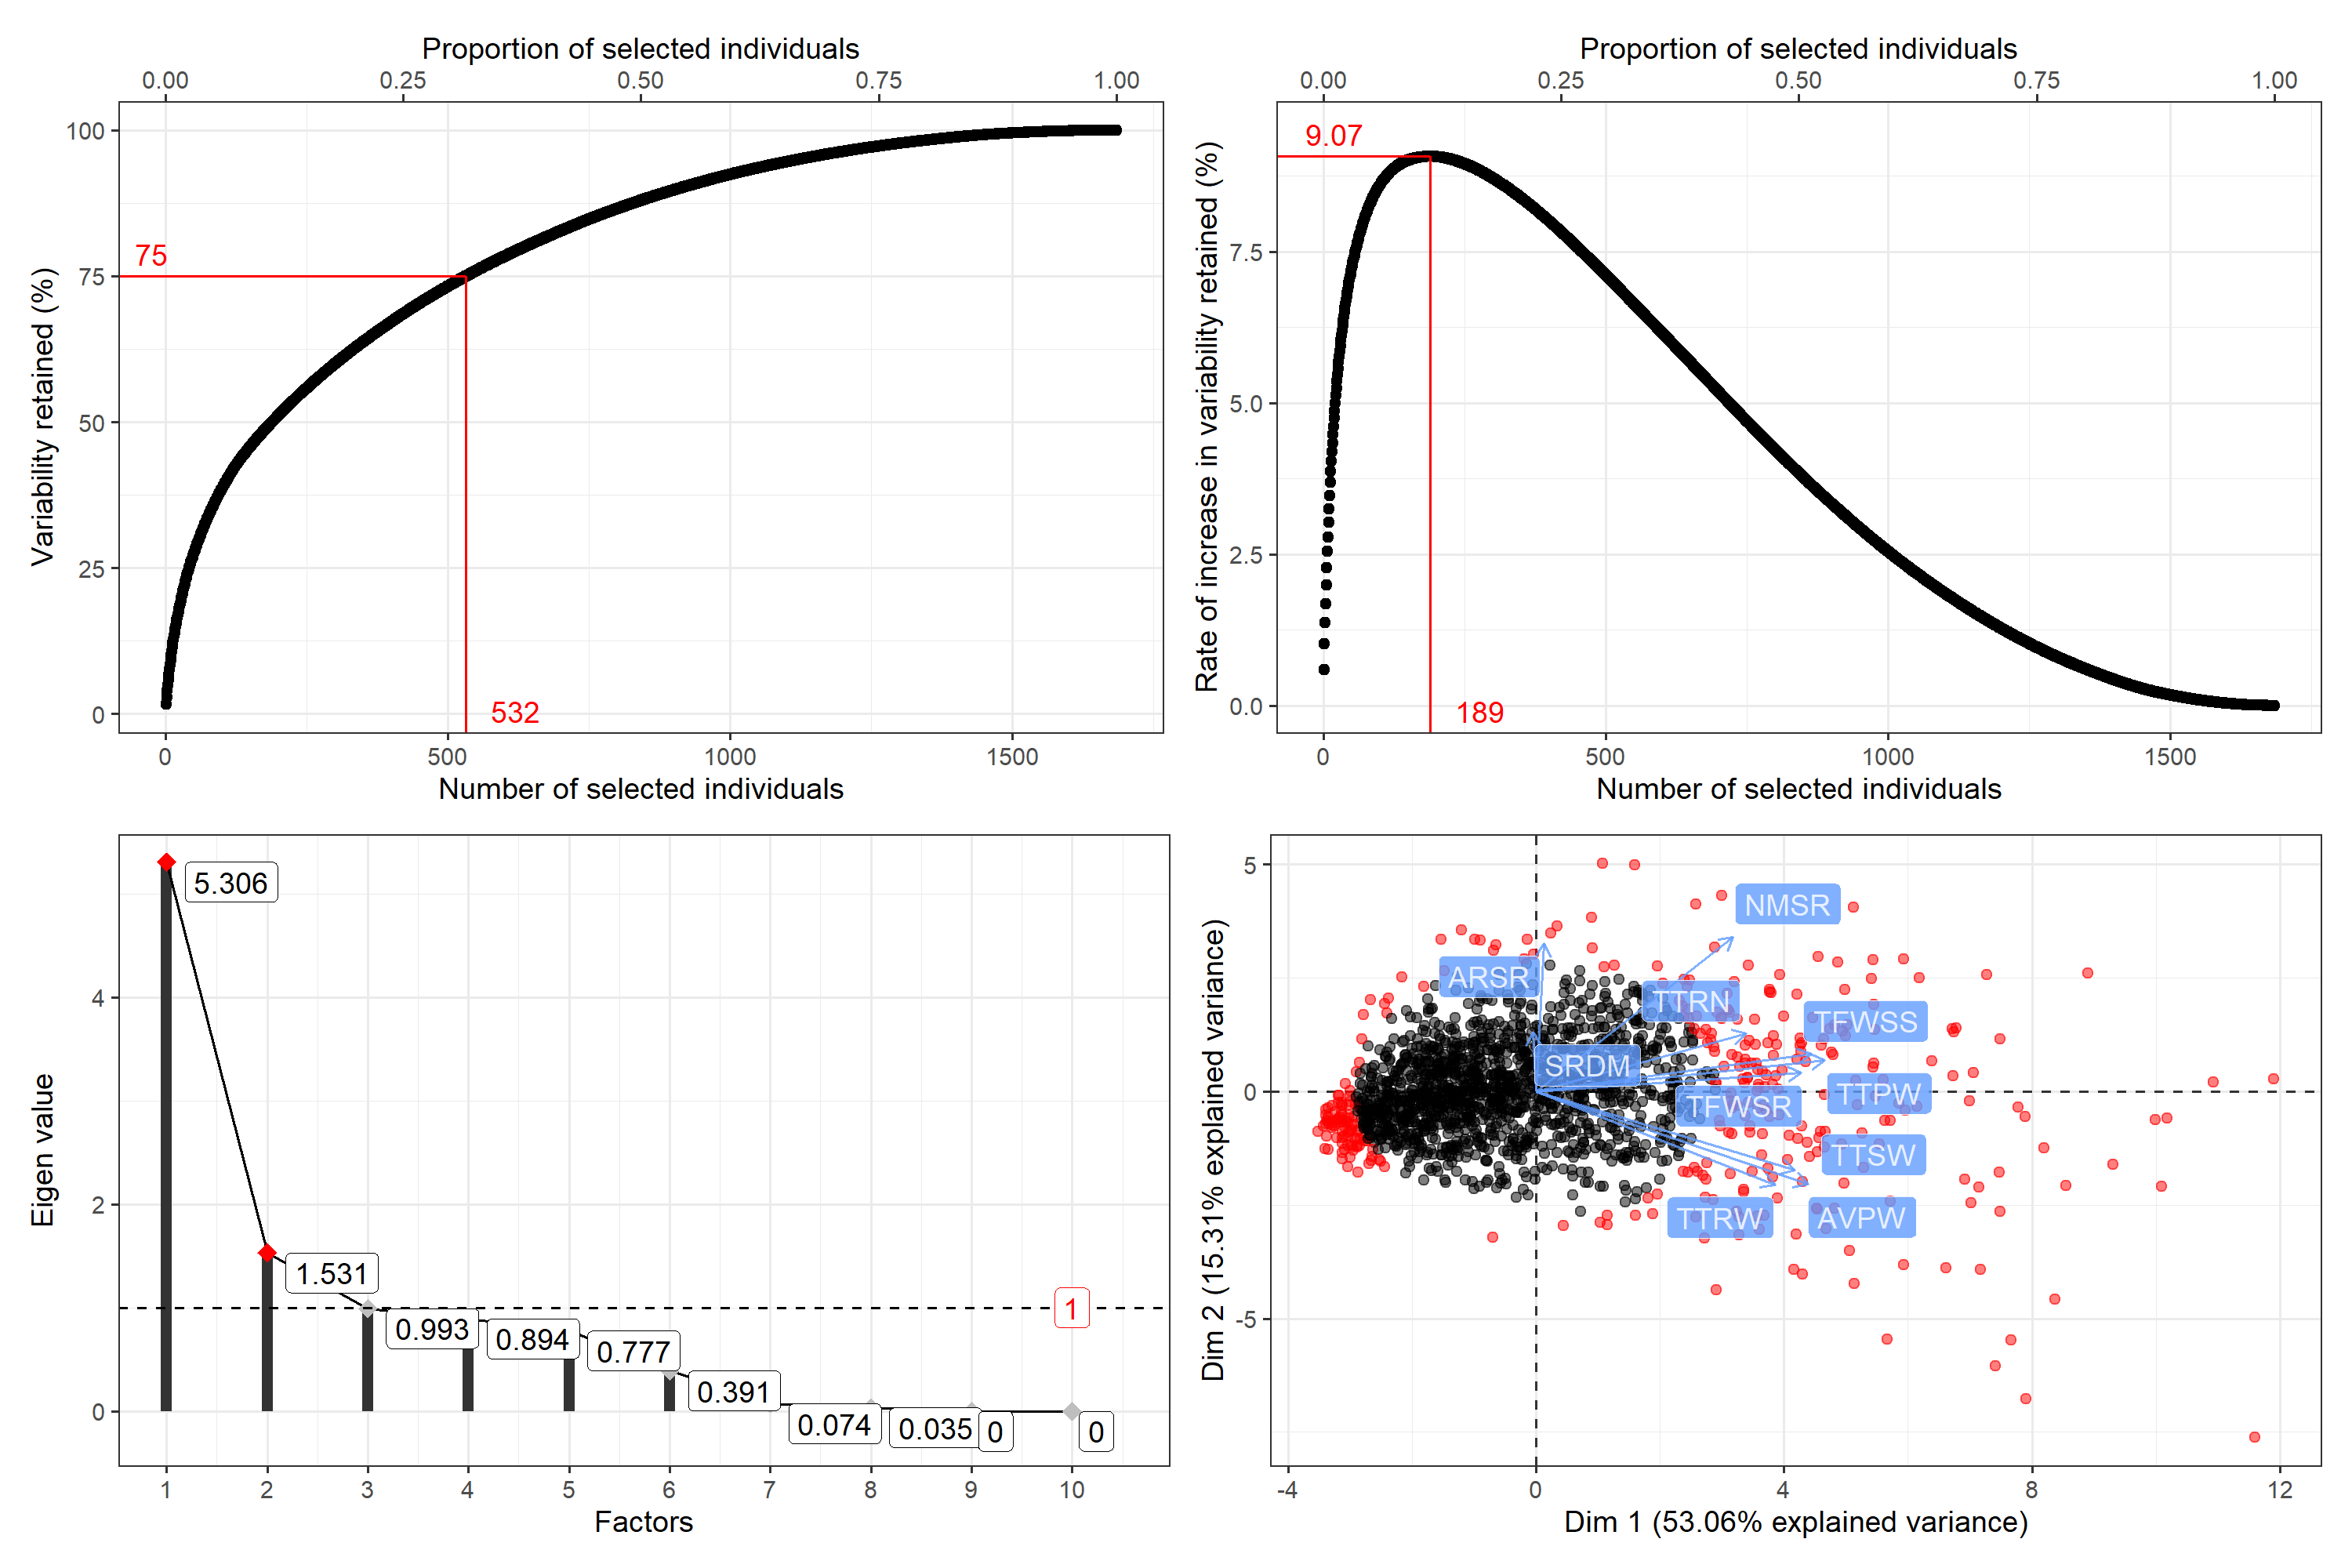
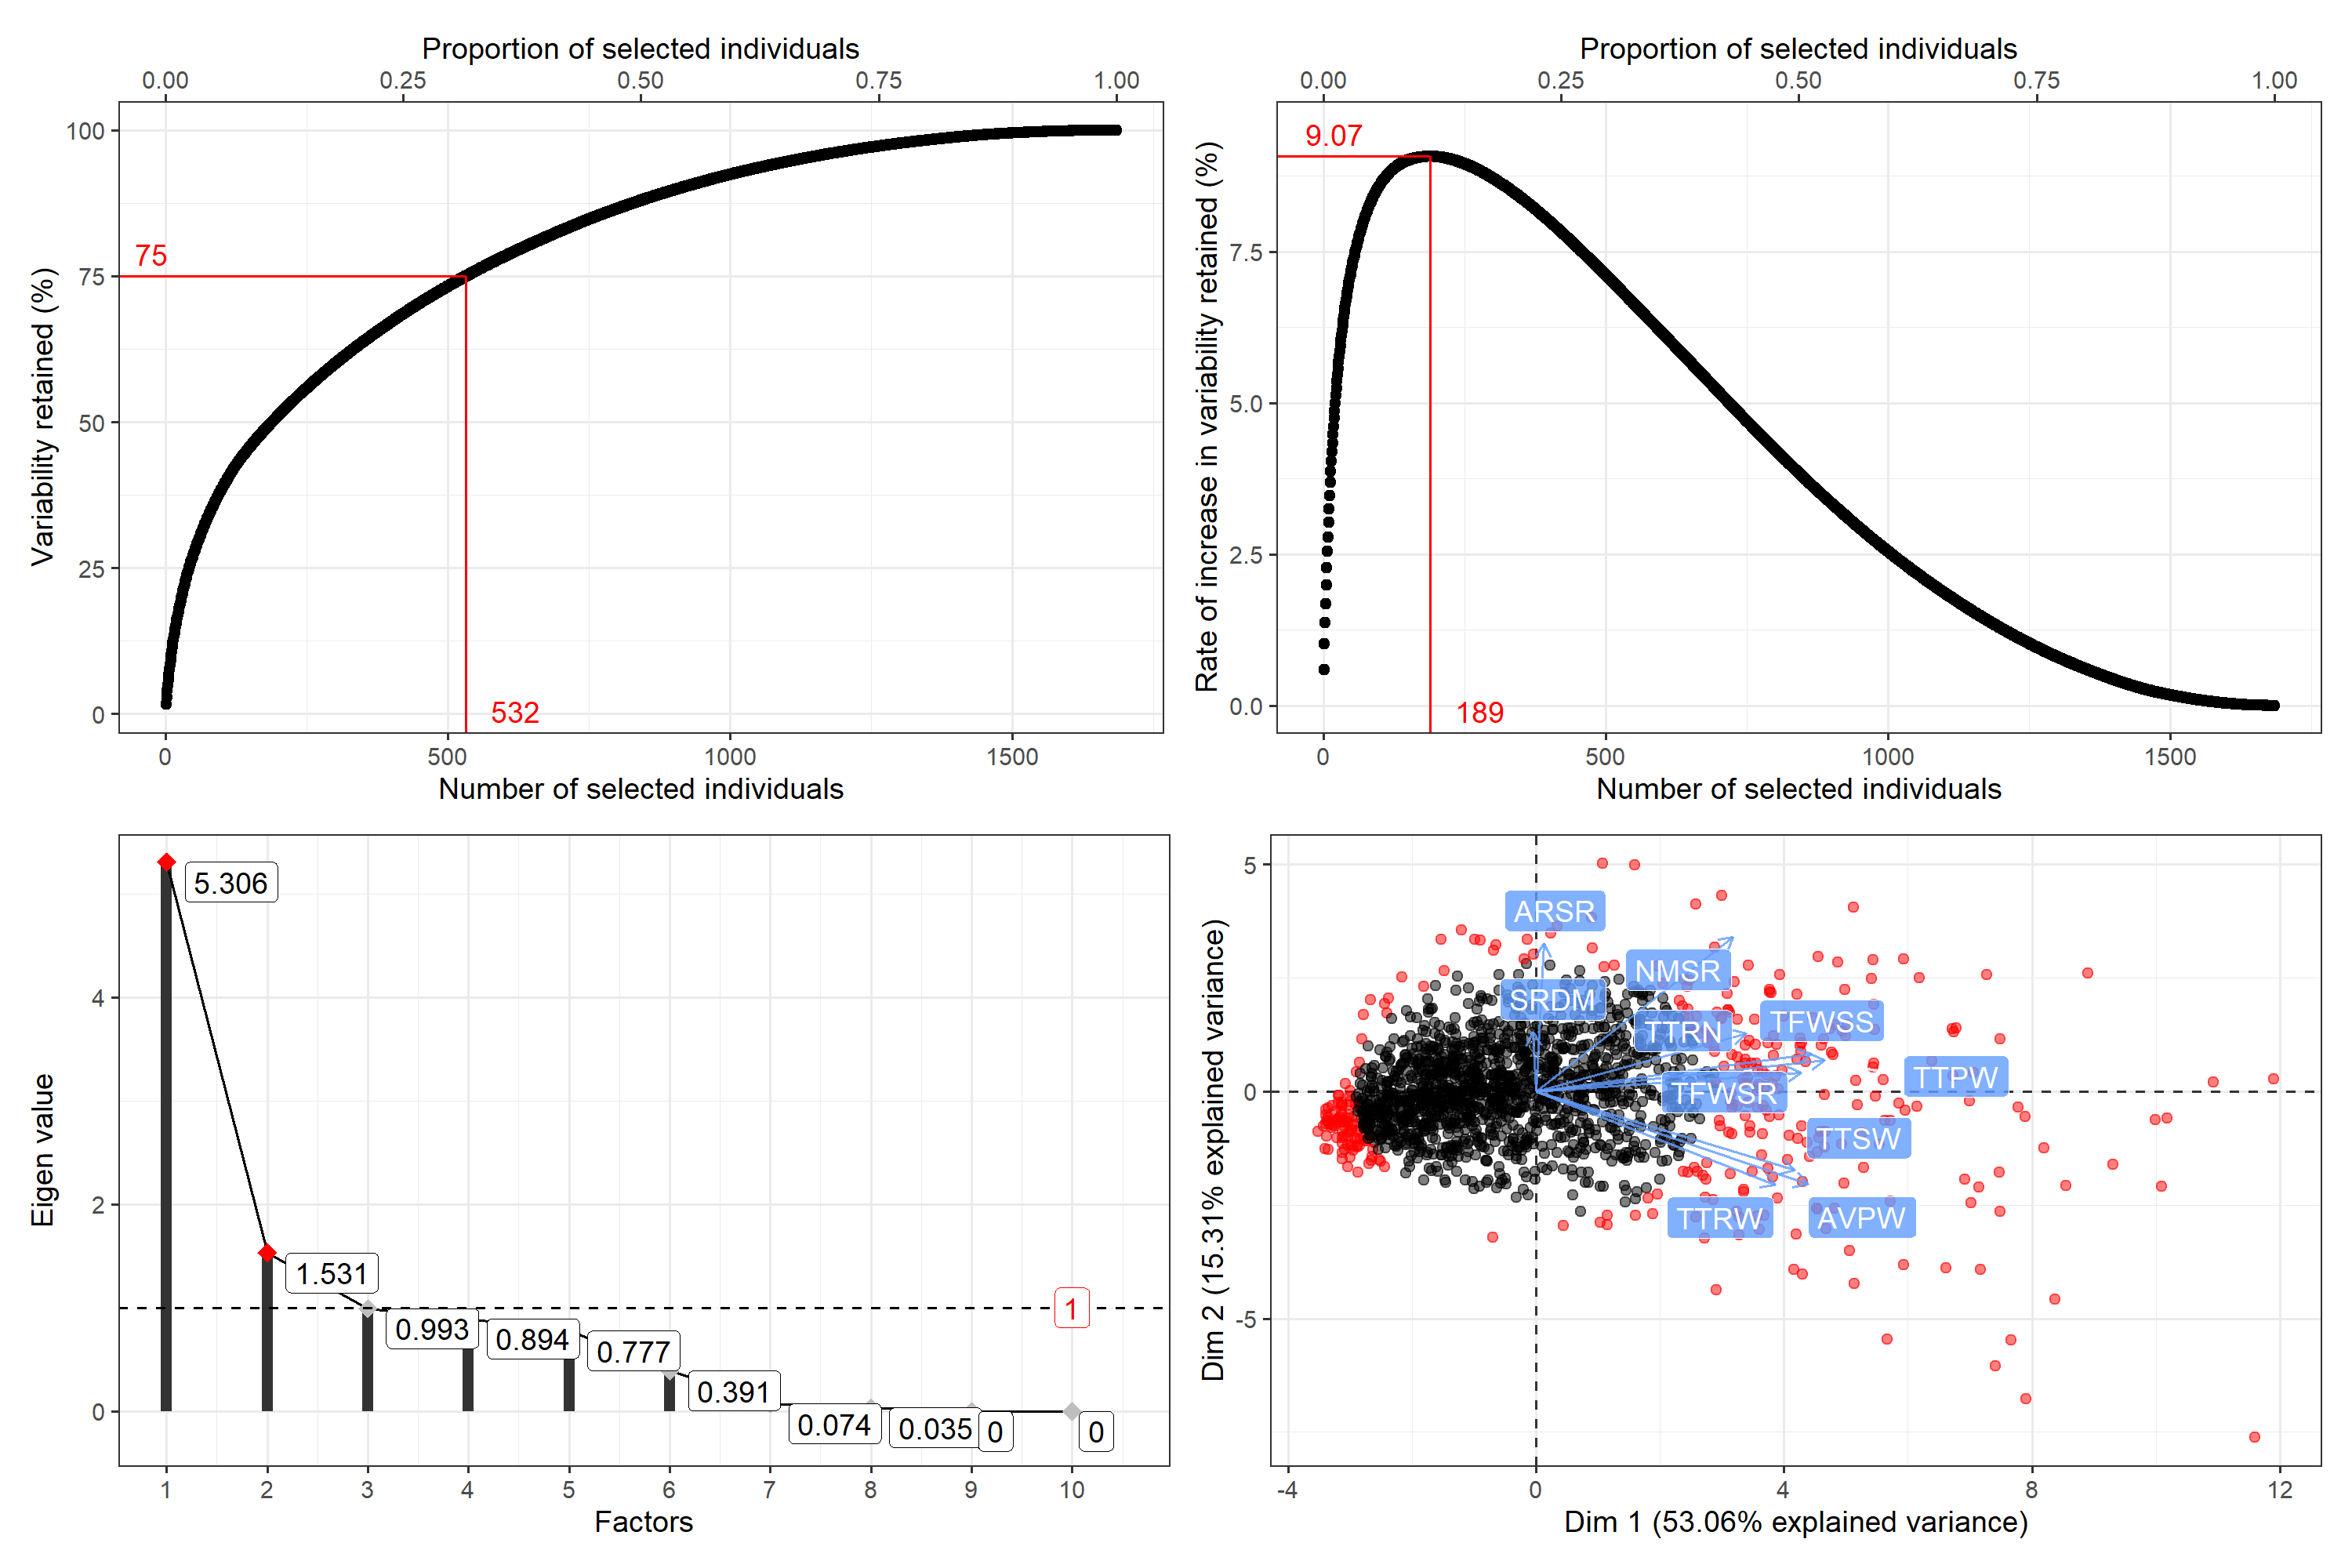
Built site for rpcss@0.1.1: 5b05992

Changed region(s): [[0.589, 0.558, 0.868, 0.775]]

diff --git a/cran-comments-archive.html b/cran-comments-archive.html
@@ -1,0 +1,123 @@
+<!DOCTYPE html>
+<!-- Generated by pkgdown: do not edit by hand --><html lang="en"><head><meta http-equiv="Content-Type" content="text/html; charset=UTF-8"><meta charset="utf-8"><meta http-equiv="X-UA-Compatible" content="IE=edge"><meta name="viewport" content="width=device-width, initial-scale=1, shrink-to-fit=no"><title>Version 0.1.0 - Third submission • rpcss</title><!-- favicons --><link rel="icon" type="image/png" sizes="96x96" href="favicon-96x96.png"><link rel="icon" type="”image/svg+xml”" href="favicon.svg"><link rel="apple-touch-icon" sizes="180x180" href="apple-touch-icon.png"><link rel="icon" sizes="any" href="favicon.ico"><link rel="manifest" href="site.webmanifest"><!-- mathjax math --><script src="https://cdn.jsdelivr.net/npm/mathjax@3.2.2/es5/tex-mml-chtml.js" integrity="sha256-MASABpB4tYktI2Oitl4t+78w/lyA+D7b/s9GEP0JOGI=" crossorigin="anonymous"></script><script>
+  window.MathJax = {
+    chtml: {
+      fontURL: "https://cdn.jsdelivr.net/npm/mathjax@3.2.2/es5/output/chtml/fonts/woff-v2"
+    }
+  };
+</script><script src="lightswitch.js"></script><script src="deps/jquery-3.6.0/jquery-3.6.0.min.js"></script><meta name="viewport" content="width=device-width, initial-scale=1, shrink-to-fit=no"><link href="deps/bootstrap-5.3.1/bootstrap.min.css" rel="stylesheet"><script src="deps/bootstrap-5.3.1/bootstrap.bundle.min.js"></script><link href="deps/Fira_Sans-0.4.10/font.css" rel="stylesheet"><link href="deps/Fira_Mono-0.4.10/font.css" rel="stylesheet"><link href="deps/font-awesome-6.5.2/css/all.min.css" rel="stylesheet"><link href="deps/font-awesome-6.5.2/css/v4-shims.min.css" rel="stylesheet"><script src="deps/headroom-0.11.0/headroom.min.js"></script><script src="deps/headroom-0.11.0/jQuery.headroom.min.js"></script><script src="deps/bootstrap-toc-1.0.1/bootstrap-toc.min.js"></script><script src="deps/clipboard.js-2.0.11/clipboard.min.js"></script><script src="deps/search-1.0.0/autocomplete.jquery.min.js"></script><script src="deps/search-1.0.0/fuse.min.js"></script><script src="deps/search-1.0.0/mark.min.js"></script><!-- pkgdown --><script src="pkgdown.js"></script><meta property="og:title" content="Version 0.1.0 - Third submission"><!-- Global site tag (gtag.js) - Google Analytics --><script async src="https://www.googletagmanager.com/gtag/js?id=G-BEF8VV6GWJ"></script><script>
+  window.dataLayer = window.dataLayer || [];
+  function gtag(){dataLayer.push(arguments);}
+  gtag('js', new Date());
+
+  gtag('config', 'G-BEF8VV6GWJ');
+</script><!-- Google tag (gtag.js) --></head><body>
+    <a href="#main" class="visually-hidden-focusable">Skip to contents</a>
+
+
+    <nav class="navbar navbar-expand-lg fixed-top " aria-label="Site navigation"><div class="container">
+
+    <a class="navbar-brand me-2" href="index.html">rpcss</a>
+
+    <small class="nav-text text-muted me-auto" data-bs-toggle="tooltip" data-bs-placement="bottom" title="">0.1.1</small>
+
+
+    <button class="navbar-toggler" type="button" data-bs-toggle="collapse" data-bs-target="#navbar" aria-controls="navbar" aria-expanded="false" aria-label="Toggle navigation">
+      <span class="navbar-toggler-icon"></span>
+    </button>
+
+    <div id="navbar" class="collapse navbar-collapse ms-3">
+      <ul class="navbar-nav me-auto"><li class="nav-item"><a class="nav-link" href="index.html"><span class="fa fa-home fa-lg"></span> Home</a></li>
+<li class="nav-item"><a class="nav-link" href="reference/index.html"><span class="fa fa-code"></span> Reference</a></li>
+<li class="nav-item"><a class="nav-link" href="news/index.html"><span class="fa far fa-newspaper"></span> News</a></li>
+      </ul><ul class="navbar-nav"><li class="nav-item"><form class="form-inline" role="search">
+ <input class="form-control" type="search" name="search-input" id="search-input" autocomplete="off" aria-label="Search site" placeholder="Search for" data-search-index="search.json"></form></li>
+<li class="nav-item"><a class="external-link nav-link" href="https://github.com/aravind-j/rpcss"><span class="fa fab fa-github-alt"></span> Github</a></li>
+<li class="nav-item dropdown">
+  <button class="nav-link dropdown-toggle" type="button" id="dropdown-lightswitch" data-bs-toggle="dropdown" aria-expanded="false" aria-haspopup="true" aria-label="Light switch"><span class="fa fa-sun"></span></button>
+  <ul class="dropdown-menu dropdown-menu-end" aria-labelledby="dropdown-lightswitch"><li><button class="dropdown-item" data-bs-theme-value="light"><span class="fa fa-sun"></span> Light</button></li>
+    <li><button class="dropdown-item" data-bs-theme-value="dark"><span class="fa fa-moon"></span> Dark</button></li>
+    <li><button class="dropdown-item" data-bs-theme-value="auto"><span class="fa fa-adjust"></span> Auto</button></li>
+  </ul></li>
+      </ul></div>
+
+
+  </div>
+</nav><div class="container template-title-body">
+<div class="row">
+  <main id="main" class="col-md-9"><div class="page-header">
+
+      <h1>Version 0.1.0 - Third submission</h1>
+      <small class="dont-index">Source: <a href="https://github.com/aravind-j/rpcss/blob/master/cran-comments-archive.md" class="external-link"><code>cran-comments-archive.md</code></a></small>
+    </div>
+
+
+<div id="version-010---third-submission" class="section level1">
+
+<ul><li>DESCRIPTION: Added the (year) in brackets.</li>
+<li>Replaced <code>\dontrun{}</code> with <code>\donttest{}</code> in examples taking &gt; 5s for execution.</li>
+<li>Fixed missing <code>\value</code> tags in documentation by adding the value in <code>print.pcss.core.Rd</code>. For generics <code>contrib.Rd</code> and <code>coreplot.Rd</code>, merged the documentation with the specific method with <code>\value</code> tags.</li>
+</ul><div class="section level3">
+<h3 id="test-environments">Test environments<a class="anchor" aria-label="anchor" href="#test-environments"></a></h3>
+<ul><li>local Windows 11 Pro 24H2, R-release (R 4.4.2) &amp; R-devel (R 4.4.0 Pre-release).</li>
+<li>Modified 24H2 <code>r-lib/actions</code> Github Action Ubuntu 24.04, R-release (R 4.4.2) &amp; R-devel (R 4.4.0 Pre-release).</li>
+<li>Modified 24H2 <code>r-lib/actions</code> Github Action macOS 14 arm64, R-release (R 4.4.2)</li>
+<li>win-builder, R-release (R 4.4.2) &amp; R-devel (R 4.4.0 Pre-release).</li>
+</ul></div>
+<div class="section level3">
+<h3 id="r-cmd-check-results">R CMD check results<a class="anchor" aria-label="anchor" href="#r-cmd-check-results"></a></h3>
+<ul><li>There were no ERRORs or WARNINGs.</li>
+<li>There is a NOTE - “misspelled words in DESCRIPTION, Hamon, Noirot, PCSS, al and et”, which can be ignored.</li>
+</ul></div>
+</div>
+<div class="section level1">
+<h1 id="version-010---second-submission">Version 0.1.0 - Second submission<a class="anchor" aria-label="anchor" href="#version-010---second-submission"></a></h1>
+<ul><li>Fixed examples with time &gt; 10s with <code>dontrun</code>.</li>
+</ul><div class="section level3">
+<h3 id="test-environments-1">Test environments<a class="anchor" aria-label="anchor" href="#test-environments-1"></a></h3>
+<ul><li>local Windows 11 Pro 24H2, R-release (R 4.4.2) &amp; R-devel (R 4.4.0 Pre-release).</li>
+<li>Modified 24H2 <code>r-lib/actions</code> Github Action Ubuntu 24.04, R-release (R 4.4.2) &amp; R-devel (R 4.4.0 Pre-release).</li>
+<li>Modified 24H2 <code>r-lib/actions</code> Github Action macOS 14 arm64, R-release (R 4.4.2)</li>
+<li>win-builder, R-release (R 4.4.2) &amp; R-devel (R 4.4.0 Pre-release).</li>
+</ul></div>
+<div class="section level3">
+<h3 id="r-cmd-check-results-1">R CMD check results<a class="anchor" aria-label="anchor" href="#r-cmd-check-results-1"></a></h3>
+<ul><li>There were no ERRORs or WARNINGs.</li>
+<li>There is a NOTE - “misspelled words in DESCRIPTION, Hamon, Noirot, PCSS, al and et”, which can be ignored.</li>
+</ul></div>
+</div>
+<div class="section level1">
+<h1 id="version-010---first-submission">Version 0.1.0 - First submission<a class="anchor" aria-label="anchor" href="#version-010---first-submission"></a></h1>
+<div class="section level3">
+<h3 id="test-environments-2">Test environments<a class="anchor" aria-label="anchor" href="#test-environments-2"></a></h3>
+<ul><li>local Windows 11 Pro 24H2, R-release (R 4.4.2) &amp; R-devel (R 4.4.0 Pre-release).</li>
+<li>Modified 24H2 <code>r-lib/actions</code> Github Action Ubuntu 24.04, R-release (R 4.4.2) &amp; R-devel (R 4.4.0 Pre-release).</li>
+<li>Modified 24H2 <code>r-lib/actions</code> Github Action macOS 14 arm64, R-release (R 4.4.2)</li>
+<li>win-builder, R-release (R 4.4.2) &amp; R-devel (R 4.4.0 Pre-release).</li>
+</ul></div>
+<div class="section level3">
+<h3 id="r-cmd-check-results-2">R CMD check results<a class="anchor" aria-label="anchor" href="#r-cmd-check-results-2"></a></h3>
+<ul><li>There were no ERRORs or WARNINGs.</li>
+<li>There is a NOTE - “misspelled words in DESCRIPTION, Hamon, Noirot, PCSS, al and et”, which can be ignored.</li>
+</ul></div>
+</div>
+
+
+  </main><aside class="col-md-3"><nav id="toc" aria-label="Table of contents"><h2>On this page</h2>
+    </nav></aside></div>
+
+
+    <footer><div class="pkgdown-footer-left">
+  <p>Developed by J. Aravind, Anju Mahendru Singh.</p>
+</div>
+
+<div class="pkgdown-footer-right">
+  <p>Site built with <a href="https://pkgdown.r-lib.org/" class="external-link">pkgdown</a> 2.2.0.9000.</p>
+</div>
+
+    </footer></div>
+
+
+
+  <script data-goatcounter="https://rpcss.goatcounter.com/count" async src="//gc.zgo.at/count.js"></script></body></html>
+

diff --git a/index.html b/index.html
@@ -32,7 +32,7 @@
   gtag('js', new Date());
 
   gtag('config', 'G-BEF8VV6GWJ');
-</script>
+</script><!-- Google tag (gtag.js) -->
 </head>
 <body>
     <a href="#main" class="visually-hidden-focusable">Skip to contents</a>
@@ -80,25 +80,25 @@
 <code>rpcss</code>: Constitution of Core Collections by Principal Component Scoring Strategy <img src="https://raw.githubusercontent.com/aravind-j/rpcss/master/inst/extdata/rpcss.png" align="right" alt="logo" width="173" height="200" style="border: none; float: right;"><a class="anchor" aria-label="anchor" href="#rpcss-constitution-of-core-collections-by-principal-component-scoring-strategy-"></a>
 </h2>
 <div class="section level6">
-<h6 id="version--0109000-license-gpl-2gpl-3">Version : <a href="https://aravind-j.github.io/rpcss/">0.1.0.9000</a>; License: <a href="https://www.r-project.org/Licenses/" class="external-link">GPL-2|GPL-3</a>
-<a class="anchor" aria-label="anchor" href="#version--0109000-license-gpl-2gpl-3"></a>
+<h6 id="version--011-copyright-c-2024-2026-icar-nbpgr-license-gpl-2gpl-3">Version : <a href="https://aravind-j.github.io/rpcss/">0.1.1</a>; Copyright (C) 2024-2026: <a href="https://nbpgr.org.in/" class="external-link">ICAR-NBPGR</a>; License: <a href="https://www.r-project.org/Licenses/" class="external-link">GPL-2|GPL-3</a>
+<a class="anchor" aria-label="anchor" href="#version--011-copyright-c-2024-2026-icar-nbpgr-license-gpl-2gpl-3"></a>
 </h6>
 </div>
 <div class="section level5">
-<h5 id="aravind-j">Aravind, J.<a class="anchor" aria-label="anchor" href="#aravind-j"></a>
+<h5 id="aravind-j-and-singh-anju-mahendru">Aravind, J. and Singh, Anju Mahendru<a class="anchor" aria-label="anchor" href="#aravind-j-and-singh-anju-mahendru"></a>
 </h5>
 <p>Division of Germplasm Conservation, ICAR-National Bureau of Plant Genetic Resources, New Delhi.</p>
 <hr>
-<p><a href="https://cran.r-project.org/" class="external-link"><img src="https://img.shields.io/badge/R%3E%3D-3.5.0-6666ff.svg?logo=R" alt="minimal R version"></a> <a href="https://www.gnu.org/licenses/gpl-3.0" class="external-link"><img src="https://img.shields.io/badge/License-GPL%20v3-blue.svg" alt="License: GPL v3"></a> <a href="https://cran.r-project.org/package=rpcss" class="external-link"><img src="https://www.r-pkg.org/badges/version-last-release/rpcss" alt="CRAN_Status_Badge"></a> <a href="https://cran.r-project.org/package=rpcss" class="external-link"><img src="https://tinyverse.netlify.app/status/rpcss" alt="Dependencies"></a> <a href="https://CRAN.R-project.org/package=rpcss" class="external-link"><img src="https://cranlogs.r-pkg.org/badges/grand-total/rpcss?color=green" alt="rstudio mirror downloads"></a> <a href="https://github.com/aravind-j/rpcss" class="external-link"><img src="https://img.shields.io/badge/devel%20version-0.1.0.9000-orange.svg" alt="develVersion"></a> <a href="https://github.com/aravind-j/rpcss" class="external-link"><img src="https://img.shields.io/github/languages/code-size/aravind-j/rpcss.svg" alt="Github Code Size"></a> <a href="https://github.com/aravind-j/rpcss/actions" class="external-link"><img src="https://github.com/aravind-j/rpcss/workflows/R-CMD-check/badge.svg" alt="R-CMD-check"></a> <a href="https://www.repostatus.org/#wip" class="external-link"><img src="https://www.repostatus.org/badges/latest/wip.svg" alt="Project Status: WIP"></a> <a href="https://lifecycle.r-lib.org/articles/stages.html#maturing" class="external-link"><img src="https://lifecycle.r-lib.org/articles/figures/lifecycle-maturing.svg" alt="lifecycle"></a> <a href="https://github.com/aravind-j/rpcss/" class="external-link"><img src="https://img.shields.io/badge/last%20change-2025--12--14-yellowgreen.svg" alt="Last-changedate"></a> <a href="https://doi.org/10.5281/zenodo.14889174" class="external-link"><img src="https://zenodo.org/badge/DOI/10.5281/zenodo.zenodo.14889174.svg" alt="Zenodo DOI"></a> <a href="https://aravind-j.github.io/rpcss/"><img src="https://img.shields.io/website-up-down-green-red/https/aravind-j.github.io/rpcss.svg" alt="Website - pkgdown"></a> <a href="https://github.com/aravind-j/google-analytics-beacon" class="external-link"><img src="https://pro-pulsar-193905.appspot.com/G-B9EKQHWBD9/welcome-page" alt="."></a> <a href="https://rpcss.goatcounter.com/" class="external-link"><img src="https://rpcss-gh.goatcounter.com/count?p=/test" alt="GoatCounter"></a> <!-- [![packageversion](https://img.shields.io/badge/Package%20version-0.2.3.3-orange.svg)](https://github.com/aravind-j/rpcss) --> <!-- [![GitHub Download Count](https://github-basic-badges.herokuapp.com/downloads/aravind-j/rpcss/total.svg)] --> <!-- [![Rdoc](http://www.rdocumentation.org/badges/version/rpcss)](http://www.rdocumentation.org/packages/rpcss) --></p>
+<p><a href="https://cran.r-project.org/" class="external-link"><img src="https://img.shields.io/badge/R%3E%3D-3.5.0-6666ff.svg?logo=R" alt="minimal R version"></a> <a href="https://www.gnu.org/licenses/gpl-3.0" class="external-link"><img src="https://img.shields.io/badge/License-GPL%20v3-blue.svg" alt="License: GPL v3"></a> <a href="https://cran.r-project.org/package=rpcss" class="external-link"><img src="https://www.r-pkg.org/badges/version-last-release/rpcss" alt="CRAN_Status_Badge"></a> <a href="https://cran.r-project.org/package=rpcss" class="external-link"><img src="https://tinyverse.netlify.app/status/rpcss" alt="Dependencies"></a> <a href="https://CRAN.R-project.org/package=rpcss" class="external-link"><img src="https://cranlogs.r-pkg.org/badges/grand-total/rpcss?color=green" alt="rstudio mirror downloads"></a> <a href="https://github.com/aravind-j/rpcss" class="external-link"><img src="https://img.shields.io/badge/devel%20version-0.1.1-orange.svg" alt="develVersion"></a> <a href="https://github.com/aravind-j/rpcss" class="external-link"><img src="https://img.shields.io/github/languages/code-size/aravind-j/rpcss.svg" alt="Github Code Size"></a> <a href="https://github.com/aravind-j/rpcss/actions" class="external-link"><img src="https://github.com/aravind-j/rpcss/workflows/R-CMD-check/badge.svg" alt="R-CMD-check"></a> <a href="https://www.repostatus.org/#wip" class="external-link"><img src="https://www.repostatus.org/badges/latest/wip.svg" alt="Project Status: WIP"></a> <a href="https://lifecycle.r-lib.org/articles/stages.html#maturing" class="external-link"><img src="https://lifecycle.r-lib.org/articles/figures/lifecycle-maturing.svg" alt="lifecycle"></a> <a href="https://github.com/aravind-j/rpcss/" class="external-link"><img src="https://img.shields.io/badge/last%20change-2026--04--17-yellowgreen.svg" alt="Last-changedate"></a> <a href="https://doi.org/10.5281/zenodo.14889174" class="external-link"><img src="https://zenodo.org/badge/DOI/10.5281/zenodo.zenodo.14889174.svg" alt="Zenodo DOI"></a> <a href="https://aravind-j.github.io/rpcss/"><img src="https://img.shields.io/website-up-down-green-red/https/aravind-j.github.io/rpcss.svg" alt="Website - pkgdown"></a> <a href="https://github.com/aravind-j/google-analytics-beacon" class="external-link"><img src="https://pro-pulsar-193905.appspot.com/G-B9EKQHWBD9/welcome-page" alt="."></a> <a href="https://rpcss-gh.goatcounter.com/" class="external-link"><img src="https://rpcss-gh.goatcounter.com/count?p=/test" alt="GoatCounter"></a> <!-- [![packageversion](https://img.shields.io/badge/Package%20version-0.2.3.3-orange.svg)](https://github.com/aravind-j/rpcss) --> <!-- [![GitHub Download Count](https://github-basic-badges.herokuapp.com/downloads/aravind-j/rpcss/total.svg)] --> <!-- [![Rdoc](http://www.rdocumentation.org/badges/version/rpcss)](http://www.rdocumentation.org/packages/rpcss) --></p>
 <hr>
 </div>
 </div>
 <div class="section level2">
 <h2 id="description">Description<a class="anchor" aria-label="anchor" href="#description"></a>
 </h2>
-<!-- Generate a Core Collection with Principal Component Scoring      Strategy (PCSS) using qualitative and/or quantitative trait data according      to Hamon and Noirot (1990) <https://www.documentation.ird.fr/hor/fdi:36506>,      Noirot et al. (1996) [doi:10.2307/2527837> and Noirot et al. (2003)      <https://www.documentation.ird.fr/hor/fdi:010031886](https://doi.org/10.2307/2527837> and Noirot et al. (2003)      <https://www.documentation.ird.fr/hor/fdi:010031886). -->
-<p>Generate a Core Collection with Principal Component Scoring Strategy (PCSS) using qualitative and/or quantitative trait data according to Hamon and Noirot (1990) &lt;<a href="https://www.documentation.ird.fr/hor/fdi:36506" class="external-link">https://www.documentation.ird.fr/hor/fdi:36506</a>&gt;, Noirot et al. (1996) &lt;<a href="https://doi.org/10.2307/2527837" class="external-link">doi:10.2307/2527837</a>&gt; and Noirot et al. (2003) &lt;<a href="https://www.documentation.ird.fr/hor/fdi:010031886" class="external-link">https://www.documentation.ird.fr/hor/fdi:010031886</a>&gt;.</p>
-<p><img src="reference/figures/README-readme-plot-1.png" width="100%"></p>
+<!-- Generate a Core Collection with Principal Component Scoring Strategy (PCSS) using qualitative and/or quantitative trait data according to Hamon and Noirot (1990) <https://www.documentation.ird.fr/hor/fdi:36506>, Noirot et al. (1996) [doi:10.2307/2527837> and Noirot et al. (2003) <https://www.documentation.ird.fr/hor/fdi:010031886](https://doi.org/10.2307/2527837> and Noirot et al. (2003) <https://www.documentation.ird.fr/hor/fdi:010031886). -->
+<p>Generate a Core Collection with Principal Component ScoringStrategy (PCSS) using qualitative and/or quantitative trait data accordingto Hamon and Noirot (1990) &lt;<a href="https://www.documentation.ird.fr/hor/fdi:36506" class="external-link">https://www.documentation.ird.fr/hor/fdi:36506</a>&gt;,Noirot et al. (1996) &lt;<a href="https://doi.org/10.2307/2527837" class="external-link">doi:10.2307/2527837</a>&gt; and Noirot et al. (2003)&lt;<a href="https://www.documentation.ird.fr/hor/fdi:010031886" class="external-link">https://www.documentation.ird.fr/hor/fdi:010031886</a>&gt;.</p>
+<p><img src="reference/figures/README-readme-plot-1.png" alt="" width="100%"></p>
 </div>
 <div class="section level2">
 <h2 id="installation">Installation<a class="anchor" aria-label="anchor" href="#installation"></a>
@@ -195,8 +195,8 @@ The vignette for the latest version is also available [online](https://aravind-j
 <code class="sourceCode R"><span><span class="fu"><a href="https://rdrr.io/r/utils/citation.html" class="external-link">citation</a></span><span class="op">(</span><span class="st">"rpcss"</span><span class="op">)</span></span></code></pre></div>
 <div class="sourceCode" id="cb4"><pre class="sourceCode R"><code class="sourceCode r"><span id="cb4-1"><a href="#cb4-1" tabindex="-1"></a>To cite the R package <span class="st">'rpcss'</span> <span class="cf">in</span> publications use<span class="sc">:</span></span>
 <span id="cb4-2"><a href="#cb4-2" tabindex="-1"></a></span>
-<span id="cb4-3"><a href="#cb4-3" tabindex="-1"></a>  Aravind, <span class="fu">J.</span> ().  rpcss<span class="sc">:</span> Constitution of Core Collections by Principal Component Scoring</span>
-<span id="cb4-4"><a href="#cb4-4" tabindex="-1"></a>  Strategy. R package version <span class="dv">0</span>.<span class="dv">1</span>.<span class="fl">0.9000</span>,</span>
+<span id="cb4-3"><a href="#cb4-3" tabindex="-1"></a>  Aravind, <span class="fu">J.</span> (<span class="dv">2026</span>).  rpcss<span class="sc">:</span> Constitution of Core Collections by</span>
+<span id="cb4-4"><a href="#cb4-4" tabindex="-1"></a>  Principal Component Scoring Strategy. R package version <span class="dv">0</span>.<span class="fl">1.1</span>,</span>
 <span id="cb4-5"><a href="#cb4-5" tabindex="-1"></a>  https<span class="sc">:</span><span class="er">//</span>aravind<span class="sc">-</span>j.github.io<span class="sc">/</span>rpcss<span class="sc">/</span>https<span class="sc">:</span><span class="er">//</span>cran.r<span class="sc">-</span>project.org<span class="sc">/</span>package<span class="ot">=</span>rpcsshttps<span class="sc">:</span><span class="er">//</span>doi.org<span class="sc">/</span><span class="fl">10.5281</span><span class="sc">/</span>zenodo.<span class="fl">14889174.</span></span>
 <span id="cb4-6"><a href="#cb4-6" tabindex="-1"></a></span>
 <span id="cb4-7"><a href="#cb4-7" tabindex="-1"></a>A BibTeX entry <span class="cf">for</span> LaTeX users is</span>
@@ -204,11 +204,13 @@ The vignette for the latest version is also available [online](https://aravind-j
 <span id="cb4-9"><a href="#cb4-9" tabindex="-1"></a>  <span class="sc">@</span>Manual{,</span>
 <span id="cb4-10"><a href="#cb4-10" tabindex="-1"></a>    title <span class="ot">=</span> {rpcss<span class="sc">:</span> Constitution of Core Collections by Principal Component Scoring Strategy},</span>
 <span id="cb4-11"><a href="#cb4-11" tabindex="-1"></a>    author <span class="ot">=</span> {J. Aravind},</span>
-<span id="cb4-12"><a href="#cb4-12" tabindex="-1"></a>    note <span class="ot">=</span> {R package version <span class="dv">0</span>.<span class="dv">1</span>.<span class="fl">0.9000</span> https<span class="sc">:</span><span class="er">//</span>aravind<span class="sc">-</span>j.github.io<span class="sc">/</span>rpcss<span class="sc">/</span> https<span class="sc">:</span><span class="er">//</span>cran.r<span class="sc">-</span>project.org<span class="sc">/</span>package<span class="ot">=</span>rpcss https<span class="sc">:</span><span class="er">//</span>doi.org<span class="sc">/</span><span class="fl">10.5281</span><span class="sc">/</span>zenodo<span class="fl">.14889174</span>},</span>
-<span id="cb4-13"><a href="#cb4-13" tabindex="-1"></a>  }</span>
-<span id="cb4-14"><a href="#cb4-14" tabindex="-1"></a></span>
-<span id="cb4-15"><a href="#cb4-15" tabindex="-1"></a>This free and open<span class="sc">-</span>source software implements academic research by the authors and co<span class="sc">-</span>workers.</span>
-<span id="cb4-16"><a href="#cb4-16" tabindex="-1"></a>If you use it, please support the project by citing the package.</span></code></pre></div>
+<span id="cb4-12"><a href="#cb4-12" tabindex="-1"></a>    note <span class="ot">=</span> {R package version <span class="dv">0</span>.<span class="fl">1.1</span> https<span class="sc">:</span><span class="er">//</span>aravind<span class="sc">-</span>j.github.io<span class="sc">/</span>rpcss<span class="sc">/</span> https<span class="sc">:</span><span class="er">//</span>cran.r<span class="sc">-</span>project.org<span class="sc">/</span>package<span class="ot">=</span>rpcss https<span class="sc">:</span><span class="er">//</span>doi.org<span class="sc">/</span><span class="fl">10.5281</span><span class="sc">/</span>zenodo<span class="fl">.14889174</span>},</span>
+<span id="cb4-13"><a href="#cb4-13" tabindex="-1"></a>    year <span class="ot">=</span> {<span class="dv">2026</span>},</span>
+<span id="cb4-14"><a href="#cb4-14" tabindex="-1"></a>  }</span>
+<span id="cb4-15"><a href="#cb4-15" tabindex="-1"></a></span>
+<span id="cb4-16"><a href="#cb4-16" tabindex="-1"></a>This free and open<span class="sc">-</span>source software implements academic research by the</span>
+<span id="cb4-17"><a href="#cb4-17" tabindex="-1"></a>authors and co<span class="sc">-</span>workers. If you use it, please support the project by</span>
+<span id="cb4-18"><a href="#cb4-18" tabindex="-1"></a>citing the package.</span></code></pre></div>
 </div>
 
   </main><aside class="col-md-3"><div class="links">
@@ -263,7 +265,6 @@ The vignette for the latest version is also available [online](https://aravind-j
 
 
 
-
-
-  </body>
+  <script data-goatcounter="https://rpcss.goatcounter.com/count" async src="//gc.zgo.at/count.js"></script>
+</body>
 </html>

diff --git a/404.html b/404.html
@@ -30,7 +30,7 @@
   gtag('js', new Date());
 
   gtag('config', 'G-BEF8VV6GWJ');
-</script>
+</script><!-- Google tag (gtag.js) -->
 </head>
 <body>
     <a href="https://aravind-j.github.io/rpcss/#main" class="visually-hidden-focusable">Skip to contents</a>
@@ -98,7 +98,6 @@ Content not found. Please use links in the navbar.
 
 
 
-
-
-  </body>
+  <script data-goatcounter="https://rpcss.goatcounter.com/count" async src="https://gc.zgo.at/count.js"></script>
+</body>
 </html>

diff --git a/authors.html b/authors.html
@@ -11,7 +11,7 @@
   gtag('js', new Date());
 
   gtag('config', 'G-BEF8VV6GWJ');
-</script></head><body>
+</script><!-- Google tag (gtag.js) --></head><body>
     <a href="#main" class="visually-hidden-focusable">Skip to contents</a>
 
 
@@ -95,7 +95,5 @@
 
 
 
-
-
-  </body></html>
+  <script data-goatcounter="https://rpcss.goatcounter.com/count" async src="//gc.zgo.at/count.js"></script></body></html>
 

diff --git a/news/index.html b/news/index.html
@@ -11,7 +11,7 @@
   gtag('js', new Date());
 
   gtag('config', 'G-BEF8VV6GWJ');
-</script></head><body>
+</script><!-- Google tag (gtag.js) --></head><body>
     <a href="#main" class="visually-hidden-focusable">Skip to contents</a>
 
 
@@ -83,7 +83,5 @@
 
 
 
-
-
-  </body></html>
+  <script data-goatcounter="https://rpcss.goatcounter.com/count" async src="//gc.zgo.at/count.js"></script></body></html>
 

diff --git a/reference/biplot.pcss.core.html b/reference/biplot.pcss.core.html
@@ -13,7 +13,7 @@ without vectors for traits from the output of pcss.core."><!-- Global site tag (
   gtag('js', new Date());
 
   gtag('config', 'G-BEF8VV6GWJ');
-</script></head><body>
+</script><!-- Google tag (gtag.js) --></head><body>
     <a href="#main" class="visually-hidden-focusable">Skip to contents</a>
 
 
@@ -285,7 +285,5 @@ regression. Use <code>"none"</code> to not highlight any accessions.</p>
 
 
 
-
-
-  </body></html>
+  <script data-goatcounter="https://rpcss.goatcounter.com/count" async src="//gc.zgo.at/count.js"></script></body></html>
 

diff --git a/reference/contrib.html b/reference/contrib.html
@@ -15,7 +15,7 @@ output of pcss.core.'><!-- Global site tag (gtag.js) - Google Analytics --><scri
   gtag('js', new Date());
 
   gtag('config', 'G-BEF8VV6GWJ');
-</script></head><body>
+</script><!-- Google tag (gtag.js) --></head><body>
     <a href="#main" class="visually-hidden-focusable">Skip to contents</a>
 
 
@@ -257,7 +257,5 @@ value.</p></dd>
 
 
 
-
-
-  </body></html>
+  <script data-goatcounter="https://rpcss.goatcounter.com/count" async src="//gc.zgo.at/count.js"></script></body></html>
 

diff --git a/reference/coreplot.html b/reference/coreplot.html
@@ -17,7 +17,7 @@ according to the criterion used."><!-- Global site tag (gtag.js) - Google Analyt
   gtag('js', new Date());
 
   gtag('config', 'G-BEF8VV6GWJ');
-</script></head><body>
+</script><!-- Google tag (gtag.js) --></head><body>
     <a href="#main" class="visually-hidden-focusable">Skip to contents</a>
 
 
@@ -223,7 +223,5 @@ regression.</p>
 
 
 
-
-
-  </body></html>
+  <script data-goatcounter="https://rpcss.goatcounter.com/count" async src="//gc.zgo.at/count.js"></script></body></html>
 

diff --git a/reference/index.html b/reference/index.html
@@ -11,7 +11,7 @@
   gtag('js', new Date());
 
   gtag('config', 'G-BEF8VV6GWJ');
-</script></head><body>
+</script><!-- Google tag (gtag.js) --></head><body>
     <a href="#main" class="visually-hidden-focusable">Skip to contents</a>
 
 
@@ -152,7 +152,5 @@
 
 
 
-
-
-  </body></html>
+  <script data-goatcounter="https://rpcss.goatcounter.com/count" async src="//gc.zgo.at/count.js"></script></body></html>
 

diff --git a/reference/pcss.core.html b/reference/pcss.core.html
@@ -17,7 +17,7 @@ using qualitative and/or quantitative trait data. MathJax = {output: {font: "mat
   gtag('js', new Date());
 
   gtag('config', 'G-BEF8VV6GWJ');
-</script></head><body>
+</script><!-- Google tag (gtag.js) --></head><body>
     <a href="#main" class="visually-hidden-focusable">Skip to contents</a>
 
 
@@ -356,7 +356,5 @@ CRC Press.<br><br> Noirot M, Hamon S, Anthony F (1996).
 
 
 
-
-
-  </body></html>
+  <script data-goatcounter="https://rpcss.goatcounter.com/count" async src="//gc.zgo.at/count.js"></script></body></html>
 

diff --git a/reference/print.pcss.core.html b/reference/print.pcss.core.html
@@ -17,7 +17,7 @@ can be constituted."><!-- Global site tag (gtag.js) - Google Analytics --><scrip
   gtag('js', new Date());
 
   gtag('config', 'G-BEF8VV6GWJ');
-</script></head><body>
+</script><!-- Google tag (gtag.js) --></head><body>
     <a href="#main" class="visually-hidden-focusable">Skip to contents</a>
 
 
@@ -109,7 +109,5 @@ can be constituted.</p>
 
 
 
-
-
-  </body></html>
+  <script data-goatcounter="https://rpcss.goatcounter.com/count" async src="//gc.zgo.at/count.js"></script></body></html>
 

diff --git a/reference/screeplot.pcss.core.html b/reference/screeplot.pcss.core.html
@@ -13,7 +13,7 @@ output of pcss.core."><!-- Global site tag (gtag.js) - Google Analytics --><scri
   gtag('js', new Date());
 
   gtag('config', 'G-BEF8VV6GWJ');
-</script></head><body>
+</script><!-- Google tag (gtag.js) --></head><body>
     <a href="#main" class="visually-hidden-focusable">Skip to contents</a>
 
 
@@ -190,7 +190,5 @@ annotation labels. Default is <code>TRUE</code>.</p></dd>
 
 
 
-
-
-  </body></html>
+  <script data-goatcounter="https://rpcss.goatcounter.com/count" async src="//gc.zgo.at/count.js"></script></body></html>
 